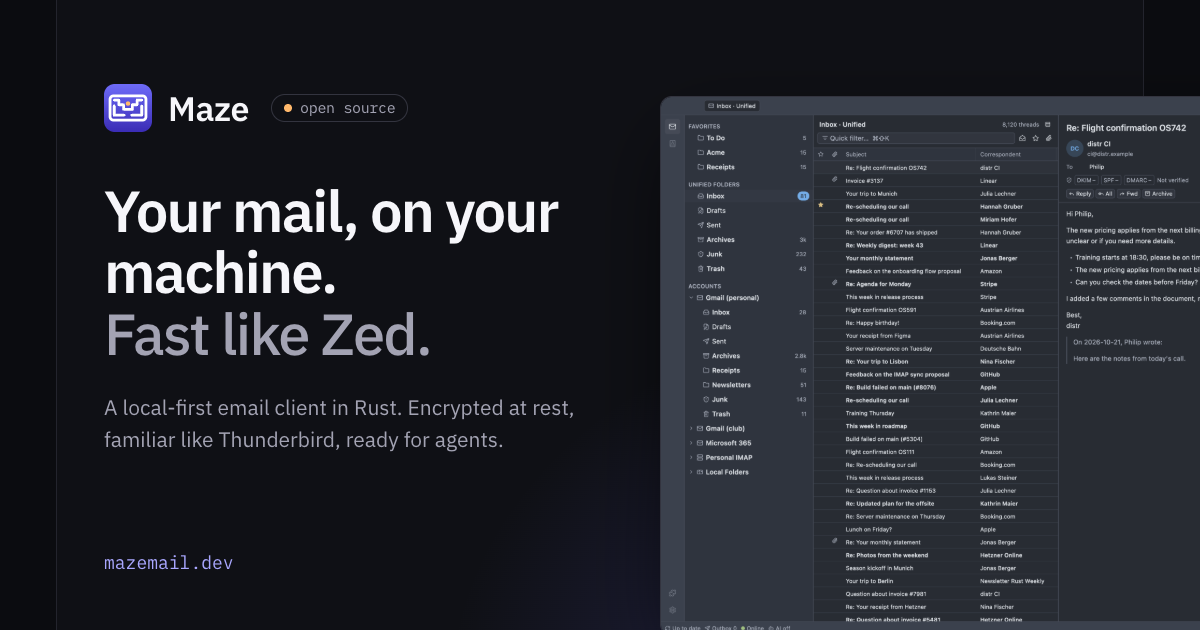
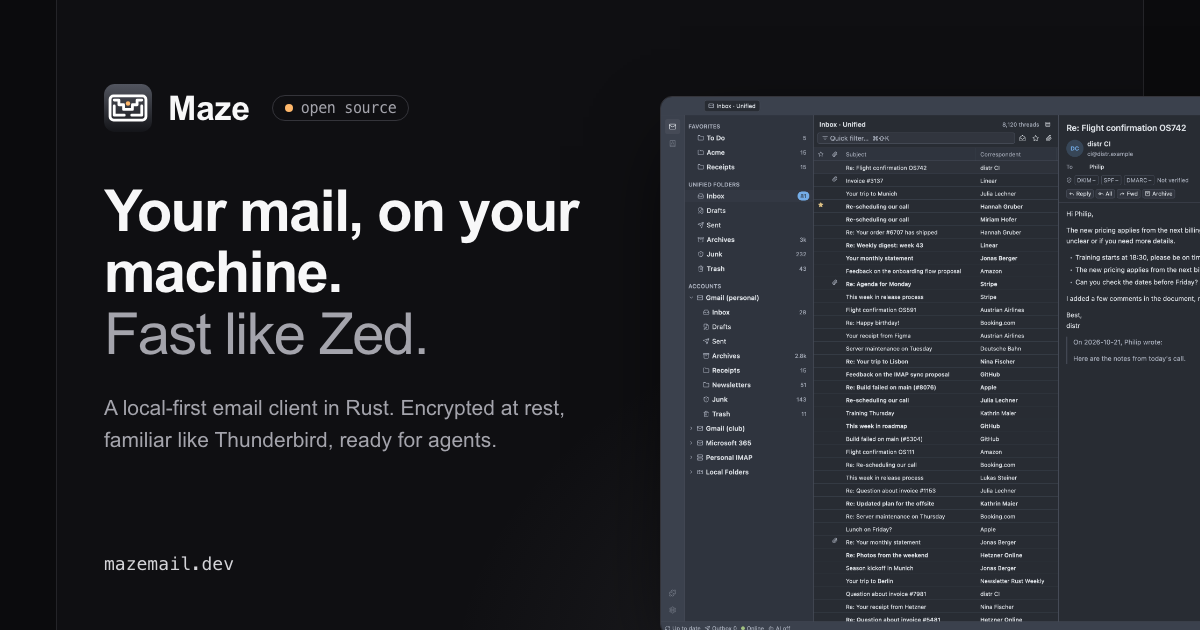
feat(website): switch to the graphite color scheme

diff --git a/website/src/styles/global.css b/website/src/styles/global.css
@@ -10,12 +10,13 @@
   --radius: 6px;
   --radius-lg: 10px;
 
-  /* Brand, from the app icon */
-  --indigo-300: #a9a7ff;
-  --indigo-400: #8f8cff;
-  --indigo-500: #6e6bf8;
-  --indigo-600: #4f49e0;
-  --indigo-700: #3a2cb5;
+  /* Brand: graphite, from the app icon. Monochrome; amber is the only colour. */
+  --graphite-100: #f4f4f5;
+  --graphite-300: #d4d4d8;
+  --graphite-400: #a1a1aa;
+  --graphite-500: #52525b;
+  --graphite-700: #27272a;
+  --graphite-900: #18181b;
   --amber: #ffb86b;
 
   color-scheme: light dark;
@@ -23,65 +24,65 @@
 
 /* Light (default) */
 :root {
-  --bg: #f7f7f9;
-  --bg-frame: #fdfdfe;
+  --bg: #f7f7f8;
+  --bg-frame: #fdfdfd;
   --surface: #ffffff;
-  --surface-2: #f1f1f5;
-  --text: #16161d;
-  --text-strong: #0b0b10;
-  --muted: #565665;
-  --faint: #6b6b7a;
-  --border: #e2e2ea;
-  --border-strong: #cdcdd8;
-  --accent: var(--indigo-600);
-  --accent-hover: var(--indigo-700);
+  --surface-2: #f1f1f3;
+  --text: #17171a;
+  --text-strong: #0b0b0d;
+  --muted: #57575e;
+  --faint: #6c6c73;
+  --border: #e3e3e7;
+  --border-strong: #cfcfd5;
+  --accent: var(--graphite-900);
+  --accent-hover: #000000;
   --accent-text: #ffffff;
-  --accent-soft: color-mix(in oklab, var(--indigo-500) 10%, transparent);
-  --code-bg: #f4f4f8;
+  --accent-soft: color-mix(in oklab, var(--graphite-500) 10%, transparent);
+  --code-bg: #f4f4f6;
   --shot-shadow: 0 1px 2px rgb(16 16 30 / 0.06), 0 12px 40px -12px rgb(16 16 30 / 0.18);
-  --selection: color-mix(in oklab, var(--indigo-500) 22%, transparent);
+  --selection: color-mix(in oklab, var(--graphite-500) 22%, transparent);
 }
 
 @media (prefers-color-scheme: dark) {
   :root:not([data-theme="light"]) {
-    --bg: #0b0c10;
-    --bg-frame: #0f1015;
-    --surface: #14151b;
-    --surface-2: #191a21;
-    --text: #e4e4ec;
-    --text-strong: #f6f6fa;
-    --muted: #a3a3b3;
-    --faint: #8d8d9d;
-    --border: #23242d;
-    --border-strong: #33343f;
-    --accent: var(--indigo-300);
-    --accent-hover: #c6c5ff;
-    --accent-text: #0b0c10;
-    --accent-soft: color-mix(in oklab, var(--indigo-400) 14%, transparent);
-    --code-bg: #121319;
+    --bg: #0b0b0d;
+    --bg-frame: #0f0f12;
+    --surface: #141417;
+    --surface-2: #19191d;
+    --text: #e5e5e8;
+    --text-strong: #f7f7f8;
+    --muted: #a4a4ac;
+    --faint: #8e8e96;
+    --border: #242428;
+    --border-strong: #34343a;
+    --accent: var(--graphite-100);
+    --accent-hover: #ffffff;
+    --accent-text: #0b0b0d;
+    --accent-soft: color-mix(in oklab, var(--graphite-400) 14%, transparent);
+    --code-bg: #121215;
     --shot-shadow: 0 1px 2px rgb(0 0 0 / 0.4), 0 20px 60px -20px rgb(0 0 0 / 0.7);
-    --selection: color-mix(in oklab, var(--indigo-400) 32%, transparent);
+    --selection: color-mix(in oklab, var(--graphite-400) 32%, transparent);
   }
 }
 
 :root[data-theme="dark"] {
-  --bg: #0b0c10;
-  --bg-frame: #0f1015;
-  --surface: #14151b;
-  --surface-2: #191a21;
-  --text: #e4e4ec;
-  --text-strong: #f6f6fa;
-  --muted: #a3a3b3;
-  --faint: #8d8d9d;
-  --border: #23242d;
-  --border-strong: #33343f;
-  --accent: var(--indigo-300);
-  --accent-hover: #c6c5ff;
-  --accent-text: #0b0c10;
-  --accent-soft: color-mix(in oklab, var(--indigo-400) 14%, transparent);
-  --code-bg: #121319;
+  --bg: #0b0b0d;
+  --bg-frame: #0f0f12;
+  --surface: #141417;
+  --surface-2: #19191d;
+  --text: #e5e5e8;
+  --text-strong: #f7f7f8;
+  --muted: #a4a4ac;
+  --faint: #8e8e96;
+  --border: #242428;
+  --border-strong: #34343a;
+  --accent: var(--graphite-100);
+  --accent-hover: #ffffff;
+  --accent-text: #0b0b0d;
+  --accent-soft: color-mix(in oklab, var(--graphite-400) 14%, transparent);
+  --code-bg: #121215;
   --shot-shadow: 0 1px 2px rgb(0 0 0 / 0.4), 0 20px 60px -20px rgb(0 0 0 / 0.7);
-  --selection: color-mix(in oklab, var(--indigo-400) 32%, transparent);
+  --selection: color-mix(in oklab, var(--graphite-400) 32%, transparent);
   color-scheme: dark;
 }
 

diff --git a/website/scripts/og.html b/website/scripts/og.html
@@ -33,18 +33,18 @@
       }
       body {
         position: relative;
-        background: #0b0c10;
-        color: #e4e4ec;
+        background: #0b0b0d;
+        color: #e5e5e8;
         font-family: "IBM Plex Sans", sans-serif;
         -webkit-font-smoothing: antialiased;
       }
       .frame {
         position: absolute;
         inset: 0 56px;
-        border-inline: 1px solid #23242d;
+        border-inline: 1px solid #242428;
         background:
-          radial-gradient(70% 90% at 85% 110%, rgb(110 107 248 / 0.28), transparent 70%),
-          #0f1015;
+          radial-gradient(70% 90% at 85% 110%, rgb(161 161 170 / 0.16), transparent 70%),
+          #0f0f12;
       }
       .text {
         position: absolute;
@@ -59,7 +59,7 @@
         font-size: 34px;
         font-weight: 600;
         letter-spacing: -0.01em;
-        color: #f6f6fa;
+        color: #f7f7f8;
       }
       .badge {
         margin-left: 6px;
@@ -67,12 +67,12 @@
         align-items: center;
         gap: 8px;
         padding: 3px 12px;
-        border: 1px solid #33343f;
+        border: 1px solid #34343a;
         border-radius: 999px;
         font-family: "Lilex", monospace;
         font-size: 15px;
         font-weight: 400;
-        color: #a3a3b3;
+        color: #a4a4ac;
       }
       .badge::before {
         content: "";
@@ -87,18 +87,18 @@
         line-height: 1.06;
         letter-spacing: -0.03em;
         font-weight: 600;
-        color: #f6f6fa;
+        color: #f7f7f8;
       }
       h1 span {
         display: block;
-        color: #a3a3b3;
+        color: #a4a4ac;
         font-weight: 500;
       }
       p {
         margin: 28px 0 0;
         font-size: 21px;
         line-height: 1.5;
-        color: #a3a3b3;
+        color: #a4a4ac;
       }
       .url {
         position: absolute;
@@ -106,14 +106,14 @@
         bottom: 56px;
         font-family: "Lilex", monospace;
         font-size: 18px;
-        color: #a9a7ff;
+        color: #d4d4d8;
       }
       .shot {
         position: absolute;
         left: 660px;
         top: 96px;
         width: 860px;
-        border: 1px solid #33343f;
+        border: 1px solid #34343a;
         border-radius: 12px;
         overflow: hidden;
         box-shadow: 0 30px 80px -20px rgb(0 0 0 / 0.8);
@@ -131,8 +131,8 @@
         <svg width="48" height="48" viewBox="100 100 824 824" aria-hidden="true">
           <defs>
             <linearGradient id="g" x1="0" y1="0" x2="0" y2="1">
-              <stop offset="0" stop-color="#6E6BF8" />
-              <stop offset="1" stop-color="#3A2CB5" />
+              <stop offset="0" stop-color="#52555F" />
+              <stop offset="1" stop-color="#141519" />
             </linearGradient>
           </defs>
           <rect x="100" y="100" width="824" height="824" rx="185" fill="url(#g)" />

diff --git a/website/src/pages/apple-touch-icon.png.ts b/website/src/pages/apple-touch-icon.png.ts
@@ -6,7 +6,7 @@ import { croppedIconSvg } from "../lib/icon";
 export const GET: APIRoute = async () => {
   const png = await sharp(Buffer.from(croppedIconSvg()), { density: 72 })
     .resize(180, 180)
-    .flatten({ background: "#6E6BF8" })
+    .flatten({ background: "#52555F" })
     .png({ compressionLevel: 9 })
     .toBuffer();
   return new Response(new Uint8Array(png), { headers: { "Content-Type": "image/png" } });

diff --git a/website/DESIGN.md b/website/DESIGN.md
@@ -49,15 +49,16 @@ to. It is a working document for whoever touches the site next.
 | Zed           | Concrete, measured claims instead of adjectives                                                  | Every number links to where it comes from                                          |
 | delta         | An honest maturity label ("Pre-alpha") in the header                                            | Ours also says what doesn't work yet, on the home page                             |
 | delta         | Small, dense section headings; tables and terminal output as the main "illustrations"           | No avatars or testimonials: there are no users to quote yet                        |
-| delta         | OKLCH-ish tokens with `color-mix()` derived tints                                               | Indigo from the Maze icon instead of red-orange; amber only for the "goal" dot     |
+| delta         | OKLCH-ish tokens with `color-mix()` derived tints                                               | Monochrome graphite instead of red-orange; amber only for the "goal" dot     |
 | Both          | Self-hosted Plex-family type and Lilex for code                                                  | Two families only (IBM Plex Sans + Lilex), latin subsets, no CDN                   |
 
 Nothing is copied: no assets, logos, copy, or CSS from either site.
 
 ## Maze's rules
 
-- **Palette.** Neutral, very slightly cool grays. Accent: indigo from the app icon
-  (`#6E6BF8` → `#3A2CB5`), used for links, the primary button and focus rings. Amber
+- **Palette.** Graphite: neutral grays and a monochrome accent (near-black `#18181B` in
+  light, near-white `#F4F4F5` in dark) for links, the primary button and focus rings,
+  matching the graphite app icon (`#52555F` → `#141519`). Amber
   (`#FFB86B`, the dot at the center of the icon's maze) appears only as a tiny marker:
   the pre-alpha dot, list bullets for "done". Both themes meet WCAG AA for text (most
   pairs AAA).
